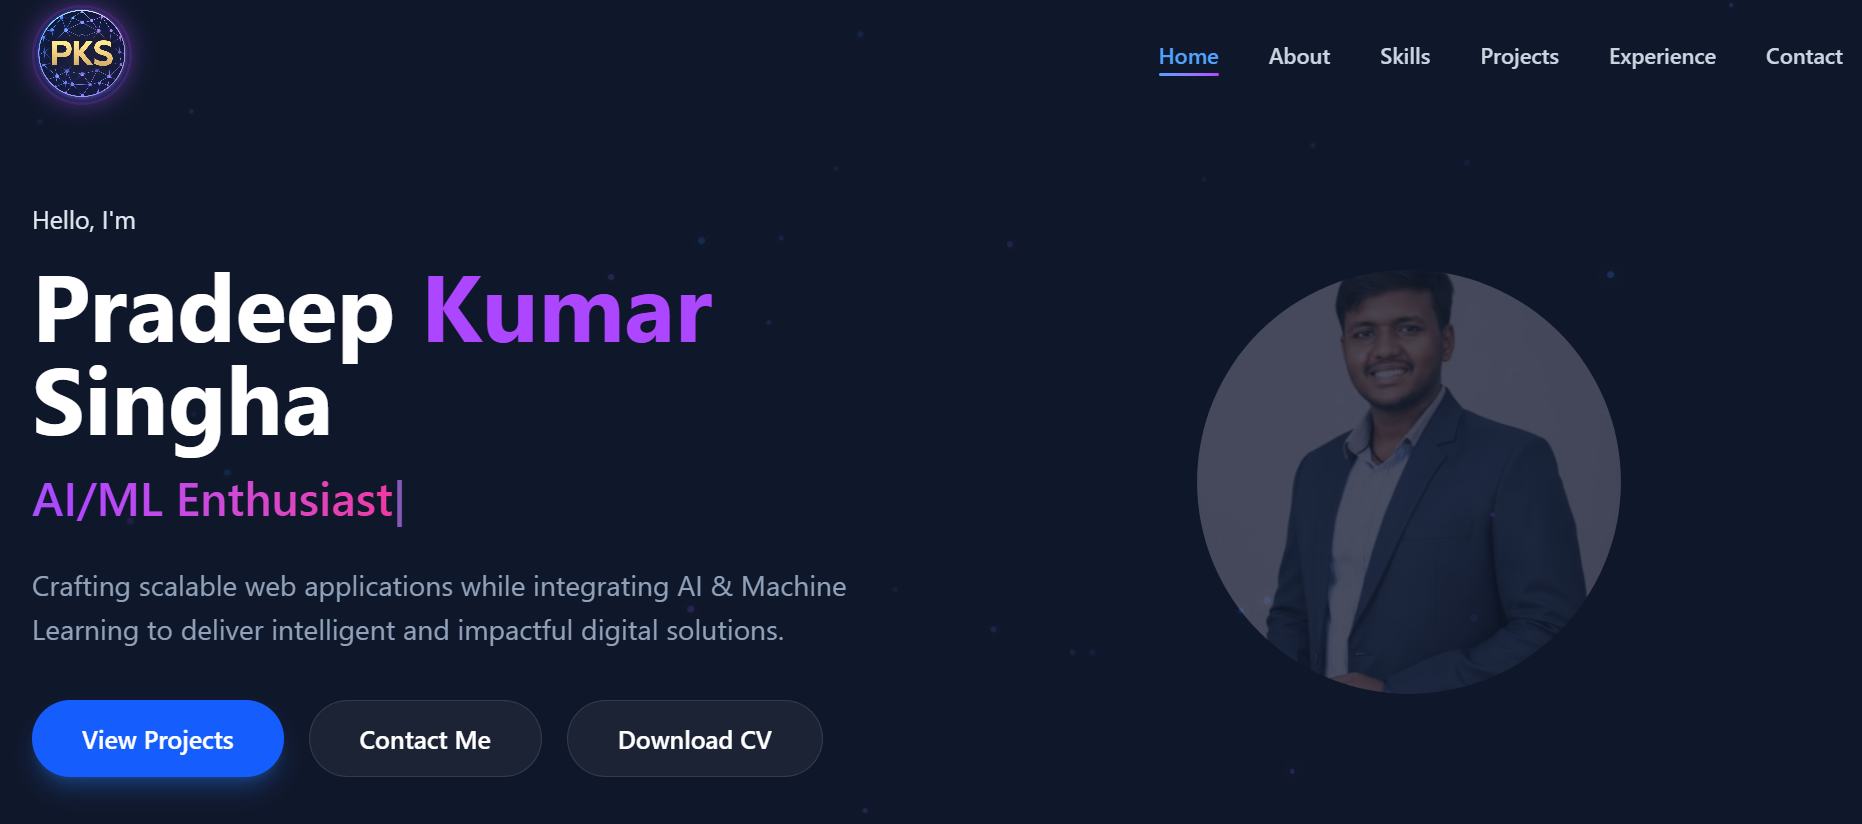
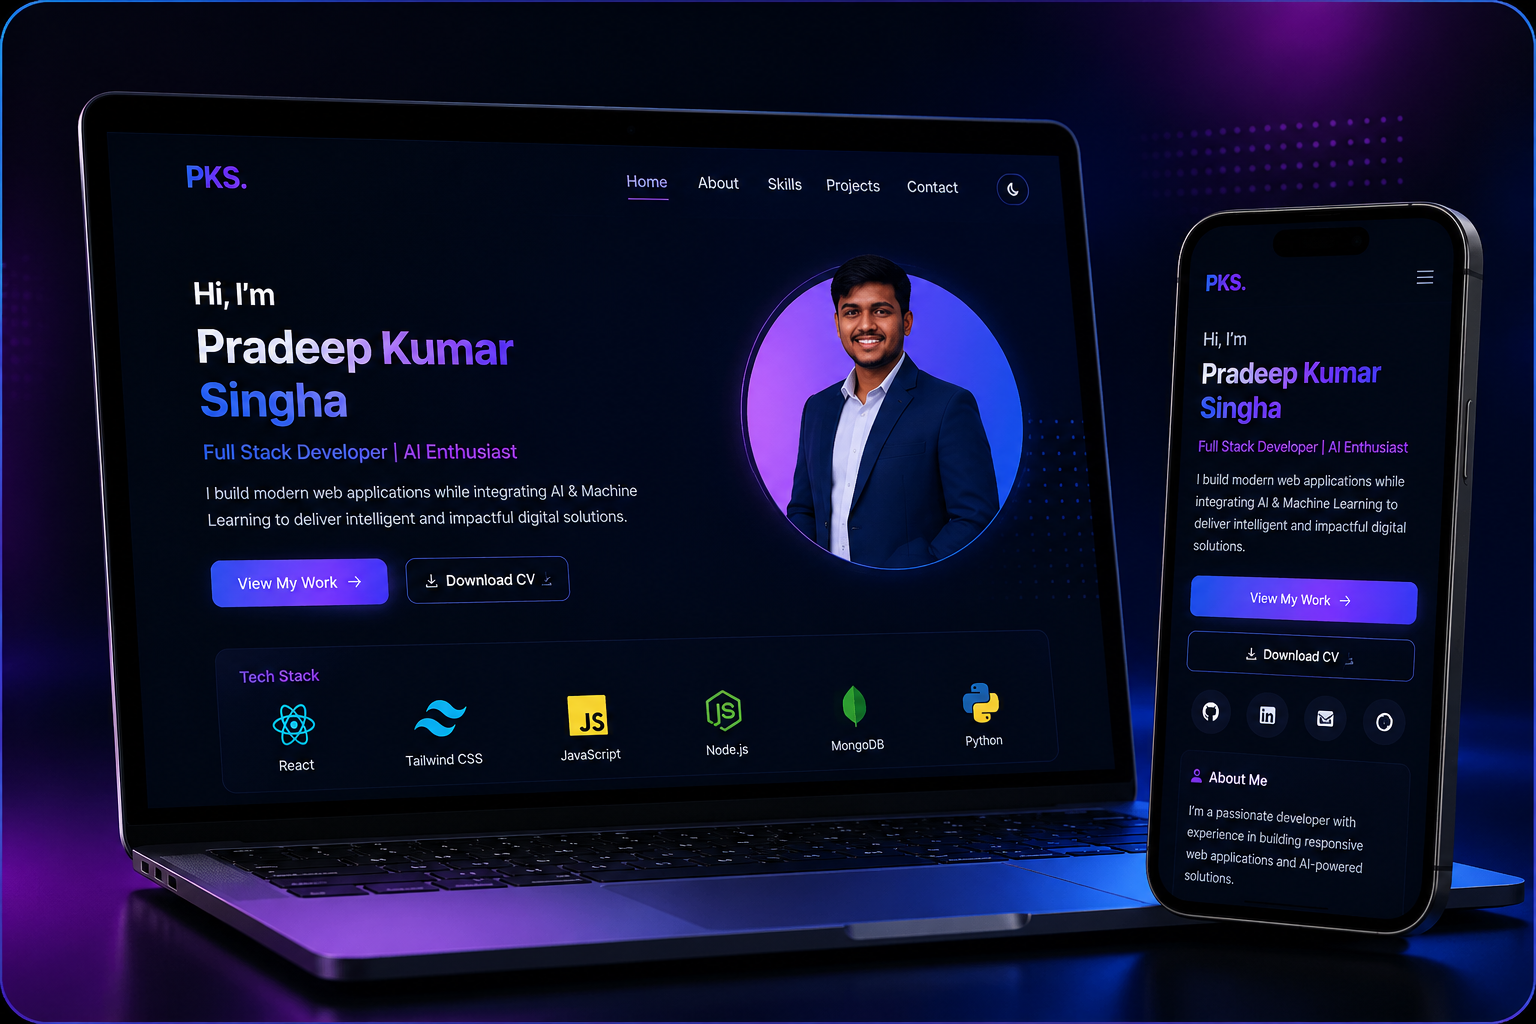
updated

diff --git a/src/data/projects.js b/src/data/projects.js
@@ -1,5 +1,5 @@
 import deliverx from "../utils/deliver.png";
-import ai_coach from "../utils/interview2.png";
+import carrier_twin from "../utils/carrier_twin.png";
 import estate_ai from "../utils/estateAi.png";
 import crop_disease from "../utils/crop.png";
 import portfolio from "../utils/portfolio.png";
@@ -8,68 +8,74 @@ import krushi_sathi from "../utils/krushi-sathi.jpg";
 export const projects = [
   {
     id: 1,
-    title: "DeliverX",
+    title: "Krushi Sathi",
     description:
-      "A scalable full-stack food delivery platform with real-time order tracking, OTP-based delivery verification, and role-based dashboards for users, sellers, and delivery agents.",
+      "An AI-powered precision agriculture ecosystem that converts soil data, real-time weather metrics, and leaf imagery into actionable farming insights, maximizing yield and diagnosing crop diseases.",
 
-    // 🔥 Replace emoji with image (IMPORTANT)
-    image: deliverx,
+    image: krushi_sathi,
 
     techStack: [
-      "MongoDB",
-      "Express",
+      "Flask",
+      "Python",
       "React",
-      "Node.js",
-      "Socket.IO",
-      "JWT Auth"
+      "Tailwind CSS",
+      "TensorFlow Lite",
+      "Scikit-Learn",
+      "Pandas",
+      "Joblib",
+      'GEN AI'
     ],
 
-    // 🔥 Add highlights (very powerful for recruiters)
     highlights: [
-      "Real-time order tracking using WebSockets",
-      "OTP-based secure delivery verification",
-      "Role-based dashboards (User, Seller, Delivery)",
-      "Scalable backend architecture with REST APIs"
+      "Engineered multi-stage predictive ML models for crop recommendation and accurate regional yield estimation",
+      "Integrated OpenWeather API to provide dynamic, weather-adaptive irrigation schedules and real-time climate alerts",
+      "Implemented a lightweight computer vision pipeline using TFLite to diagnose leaf diseases and prescribe treatment dosages",
+      "Optimized backend architecture with lazy-loading models to eliminate server cold-start delays and drop boot times under 2 seconds",
+      "Built a highly responsive, intuitive frontend dashboard for tracking soil health metrics and regional weather variables"
     ],
-
-    githubUrl: "https://github.com/pradeepkumarsingha/DeliverX",
-
-    // 🔥 If not deployed → remove or keep null
-    liveUrl: null,
-
+    githubUrl: "https://github.com/pradeepkumarsingha/Krushi-Sathi",
+    liveUrl: "https://krushi-sathi.vercel.app/",
     featured: true
+
   },
   {
-    id: 2,
-    title: "AI Interview Practice Platform",
-    description:
-      "A GenAI-powered career guidance platform that leverages Large Language Models (LLMs) to analyze user skills, interests, and goals, providing personalized career recommendations, learning paths, and interview preparation guidance.",
+  id: 2,
+  title: "AI Career Twin",
+  description:
+    "A AI-powered career development platform that creates a personalized digital twin of users to analyze their skills, resume, interests, and career goals. The platform provides AI-driven career recommendations, skill gap analysis, interview preparation, ATS evaluation, and personalized learning roadmaps.",
 
-    image: ai_coach,
+  image: carrier_twin,
 
-    techStack: [
-      "Python",
-      "LLM",
-      "GenAI",
-      "OpenAI API",
-      "React",
-      "Node.js"
-    ],
+  techStack: [
+    "Python",
+    "FastAPI",
+    "React",
+    "Node.js",
+    "MongoDB",
+    "LLM",
+    "GenAI",
+    "Machine Learning",
+    "NLP",
+    "Data Analytics",
+  ],
 
-    highlights: [
-      "LLM-based personalized career recommendations",
-      "GenAI-driven resume and interview guidance",
-      "Dynamic learning path generation based on user profile",
-      "Interactive chatbot-style career assistant",
-      "Real-time responses using API-based AI models"
-    ],
+  highlights: [
+    "Personalized Digital Twin for career analysis and guidance",
+    "AI-powered role prediction and career recommendations",
+    "Skill gap analysis with customized learning roadmaps",
+    "ATS resume scoring and resume improvement suggestions",
+    "AI mock interview system with real-time feedback",
+    "Real-time recommendations using LLM-based AI models",
+    "Fully deployed and production-ready platform",
+    "Live Interview Practice Platform with AI-driven feedback and scoring"
+  ],
 
-    githubUrl: "https://github.com/pradeepkumarsingha/Ai-Interview-Practice-Platform",
+  githubUrl: "https://github.com/pradeepkumarsingha/Ai-Interview-Practice-Platform",
 
-    liveUrl: null,
+  liveUrl: "https://ai-carrier-twin.vercel.app/",
 
-    featured: true
-  },
+  featured: true
+},
   {
     id: 3,
     title: "Estate AI",
@@ -106,6 +112,39 @@ export const projects = [
   },
   {
     id: 4,
+    title: "DeliverX",
+    description:
+      "A scalable full-stack food delivery platform with real-time order tracking, OTP-based delivery verification, and role-based dashboards for users, sellers, and delivery agents.",
+
+    // 🔥 Replace emoji with image (IMPORTANT)
+    image: deliverx,
+
+    techStack: [
+      "MongoDB",
+      "Express",
+      "React",
+      "Node.js",
+      "Socket.IO",
+      "JWT Auth"
+    ],
+
+    // 🔥 Add highlights (very powerful for recruiters)
+    highlights: [
+      "Real-time order tracking using WebSockets",
+      "OTP-based secure delivery verification",
+      "Role-based dashboards (User, Seller, Delivery)",
+      "Scalable backend architecture with REST APIs"
+    ],
+
+    githubUrl: "https://github.com/pradeepkumarsingha/DeliverX",
+
+    // 🔥 If not deployed → remove or keep null
+    liveUrl: null,
+
+    featured: true
+  },
+  {
+    id: 5,
     title: "Crop Disease Detection",
     description:
       "An AI-powered crop disease detection system that uses deep learning and computer vision to identify plant diseases from leaf images, helping farmers take timely and accurate actions.",
@@ -136,7 +175,7 @@ export const projects = [
     featured: true
   },
   {
-    id: 5,
+    id: 6,
     title: "PKS Portfolio",
     description:
       "A personal portfolio website built with React and Tailwind CSS, showcasing projects, skills, and achievements in a visually appealing and responsive design.",
@@ -161,39 +200,6 @@ export const projects = [
     ],
     githubUrl: "https://github.com/pradeepkumarsingha/Professional_Portfolio",
     liveUrl: "https://pradeepsportfoliopks.netlify.app/",
-    featured: false
-
-  },
-
-  {
-    id: 6,
-    title: "Krushi Sathi",
-    description:
-      "An AI-powered precision agriculture ecosystem that converts soil data, real-time weather metrics, and leaf imagery into actionable farming insights, maximizing yield and diagnosing crop diseases.",
-
-    image: krushi_sathi,
-
-    techStack: [
-      "Flask",
-      "Python",
-      "React",
-      "Tailwind CSS",
-      "TensorFlow Lite",
-      "Scikit-Learn",
-      "Pandas",
-      "Joblib",
-      'GEN AI'
-    ],
-
-    highlights: [
-      "Engineered multi-stage predictive ML models for crop recommendation and accurate regional yield estimation",
-      "Integrated OpenWeather API to provide dynamic, weather-adaptive irrigation schedules and real-time climate alerts",
-      "Implemented a lightweight computer vision pipeline using TFLite to diagnose leaf diseases and prescribe treatment dosages",
-      "Optimized backend architecture with lazy-loading models to eliminate server cold-start delays and drop boot times under 2 seconds",
-      "Built a highly responsive, intuitive frontend dashboard for tracking soil health metrics and regional weather variables"
-    ],
-    githubUrl: "https://github.com/pradeepkumarsingha/Krushi-Sathi",
-    liveUrl: "https://krushi-sathi.vercel.app/",
     featured: false
 
   }

diff --git a/src/components/Education.jsx b/src/components/Education.jsx
@@ -1,0 +1,98 @@
+import React from 'react';
+import { motion } from 'framer-motion';
+
+const educationData = [
+  {
+    degree: "Bachelor of Technology (B.Tech)",
+    branch: "Computer Science / Engineering", 
+    institution: "GIFT Autonomous (Gandhi Institute for Technology)",
+    location: "Bhubaneswar, Odisha",
+    timeline: "4th Year (Continuing)",
+    metricType: "CGPA",
+    metricValue: "8.9"
+  },
+  {
+    degree: "Higher Secondary Education (Class 12th - Science)",
+    institution: "Rural Institute of Higher Studies (RIHS)",
+    location: "Bhograi, Odisha",
+    timeline: "Completed in 2023",
+    metricType: "Percentage",
+    metricValue: "77.6%"
+  },
+  {
+    degree: "Secondary Education (Class 10th)",
+    institution: "Prasad Chandra Govt. High School",
+    location: "Kachuadi, Odisha",
+    timeline: "Completed in 2021",
+    metricType: "Percentage",
+    metricValue: "86.5%"
+  }
+];
+
+export default function Education() {
+  return (
+    // Crucial Fixes: Explicit id mapping combined with scroll padding offset
+    <section 
+      id="education" 
+      className="relative overflow-hidden bg-slate-900 text-white py-24 px-6 md:px-12 scroll-mt-20"
+    >
+      <div className="max-w-4xl mx-auto">
+        
+        {/* Animated Section Header */}
+        <motion.div
+          initial={{ opacity: 0, y: 20 }}
+          whileInView={{ opacity: 1, y: 0 }}
+          transition={{ duration: 0.95, ease: 'easeOut' }}
+          viewport={{ once: true }}
+          className="mb-16 text-center"
+        >
+          <h2 className="mb-4 text-3xl font-bold md:text-5xl tracking-wide">
+            Academic <span className="text-blue-400">Background</span>
+          </h2>
+          <div className="mx-auto h-1 w-20 rounded-full bg-gradient-to-r from-blue-400 to-purple-500"></div>
+        </motion.div>
+
+        {/* Timeline Container */}
+        <div className="relative border-l border-slate-700 ml-4 md:ml-6">
+          {educationData.map((item, index) => (
+            <motion.div 
+              key={index} 
+              initial={{ opacity: 0, x: -20 }}
+              whileInView={{ opacity: 1, x: 0 }}
+              transition={{ duration: 0.8, delay: index * 0.1, ease: 'easeOut' }}
+              viewport={{ once: true }}
+              className="mb-10 ml-6 relative"
+            >
+              
+              {/* Timeline Indicator Node */}
+              <span className="absolute -left-10 top-1.5 bg-blue-500 w-4 h-4 rounded-full border-4 border-slate-900 ring-4 ring-blue-500/20"></span>
+              
+              {/* Card Content Card */}
+              <div className="bg-slate-800/60 backdrop-blur-sm p-6 rounded-xl border border-slate-700/50 shadow-md hover:border-blue-500/50 transition-all duration-300 shadow-cyan-500/5">
+                <div className="flex flex-col md:flex-row md:justify-between md:items-start gap-4">
+                  <div>
+                    <h3 className="text-xl font-bold text-slate-100">{item.degree}</h3>
+                    {item.branch && <p className="text-sm text-blue-300 mt-0.5">{item.branch}</p>}
+                    <p className="text-slate-300 font-medium mt-2">{item.institution}</p>
+                    <p className="text-xs text-slate-400 mt-1 flex items-center gap-1">
+                      <span>📍</span> {item.location}
+                    </p>
+                  </div>
+
+                  {/* Highlighted Performance Badge */}
+                  <div className="flex flex-col items-start md:items-end gap-1">
+                    <span className="text-xs tracking-wider text-slate-400 uppercase">{item.timeline}</span>
+                    <div className="bg-blue-600/20 border border-blue-500/40 text-blue-300 px-3 py-1 rounded-full text-sm font-semibold mt-1">
+                      {item.metricType}: {item.metricValue}
+                    </div>
+                  </div>
+                </div>
+              </div>
+
+            </motion.div>
+          ))}
+        </div>
+      </div>
+    </section>
+  );
+}

diff --git a/src/data/experience.js b/src/data/experience.js
@@ -1,6 +1,14 @@
 export const experiences = [
   {
-    id: 1,
+  id: 1,
+  role: "AI Industry-Oriented Course Trainee",
+  company: "Nirmaan, Redington & Microsoft",
+  duration: "Feb 2026 – Present",
+  description:
+    "Participating in an industry-oriented AI training program focused on Artificial Intelligence, Machine Learning, and Generative AI technologies. Gaining hands-on experience in data analysis, model development, prompt engineering, and real-world AI applications through practical projects and mentorship from industry experts."
+},
+  {
+    id: 2,
     role: "AI/ML Research Intern",
     company: "Owl AI",
     duration: "Sep 2025",
@@ -8,7 +16,7 @@ export const experiences = [
       "Conducted research and experimentation with machine learning models to extract data-driven insights. Performed EDA using Pandas, NumPy, and Matplotlib, and optimized models through hyperparameter tuning to improve prediction accuracy."
   },
   {
-    id: 2,
+    id: 3,
     role: "AI/ML Intern",
     company: "Central Tool Room & Training Centre (CTTC)",
     duration: "Jun 2025",
@@ -16,7 +24,7 @@ export const experiences = [
       "Worked on data preprocessing and exploratory data analysis (EDA). Built and evaluated classification models using scikit-learn with feature scaling, cross-validation, and performance metrics such as accuracy, precision, recall, and confusion matrix."
   },
   {
-    id: 3,
+    id: 4,
     role: "Java Intern",
     company: "Odisha Computer Application Centre (OCAC)",
     duration: "September 2024",

diff --git a/src/App.jsx b/src/App.jsx
@@ -12,6 +12,7 @@ import Achievements from './components/Achievements';
 import Gallery from './components/Gallery';
 import Contact from './components/Contact';
 import Footer from './components/Footer';
+import Education from './components/Education';
 
 function App() {
   const [loading, setLoading] = useState(true);
@@ -33,6 +34,7 @@ function App() {
           <Hero />
           <About />
           <Skills />
+          <Education />
           <Projects />
           <Experience />
           <Achievements />

diff --git a/src/components/Navbar.jsx b/src/components/Navbar.jsx
@@ -7,6 +7,7 @@ const navLinks = [
   { name: 'Home', id: 'home' },
   { name: 'About', id: 'about' },
   { name: 'Skills', id: 'skills' },
+  { name: 'Education', id: 'education' },
   { name: 'Projects', id: 'projects' },
   { name: 'Experience', id: 'experience' },
   { name: 'Contact', id: 'contact' }
